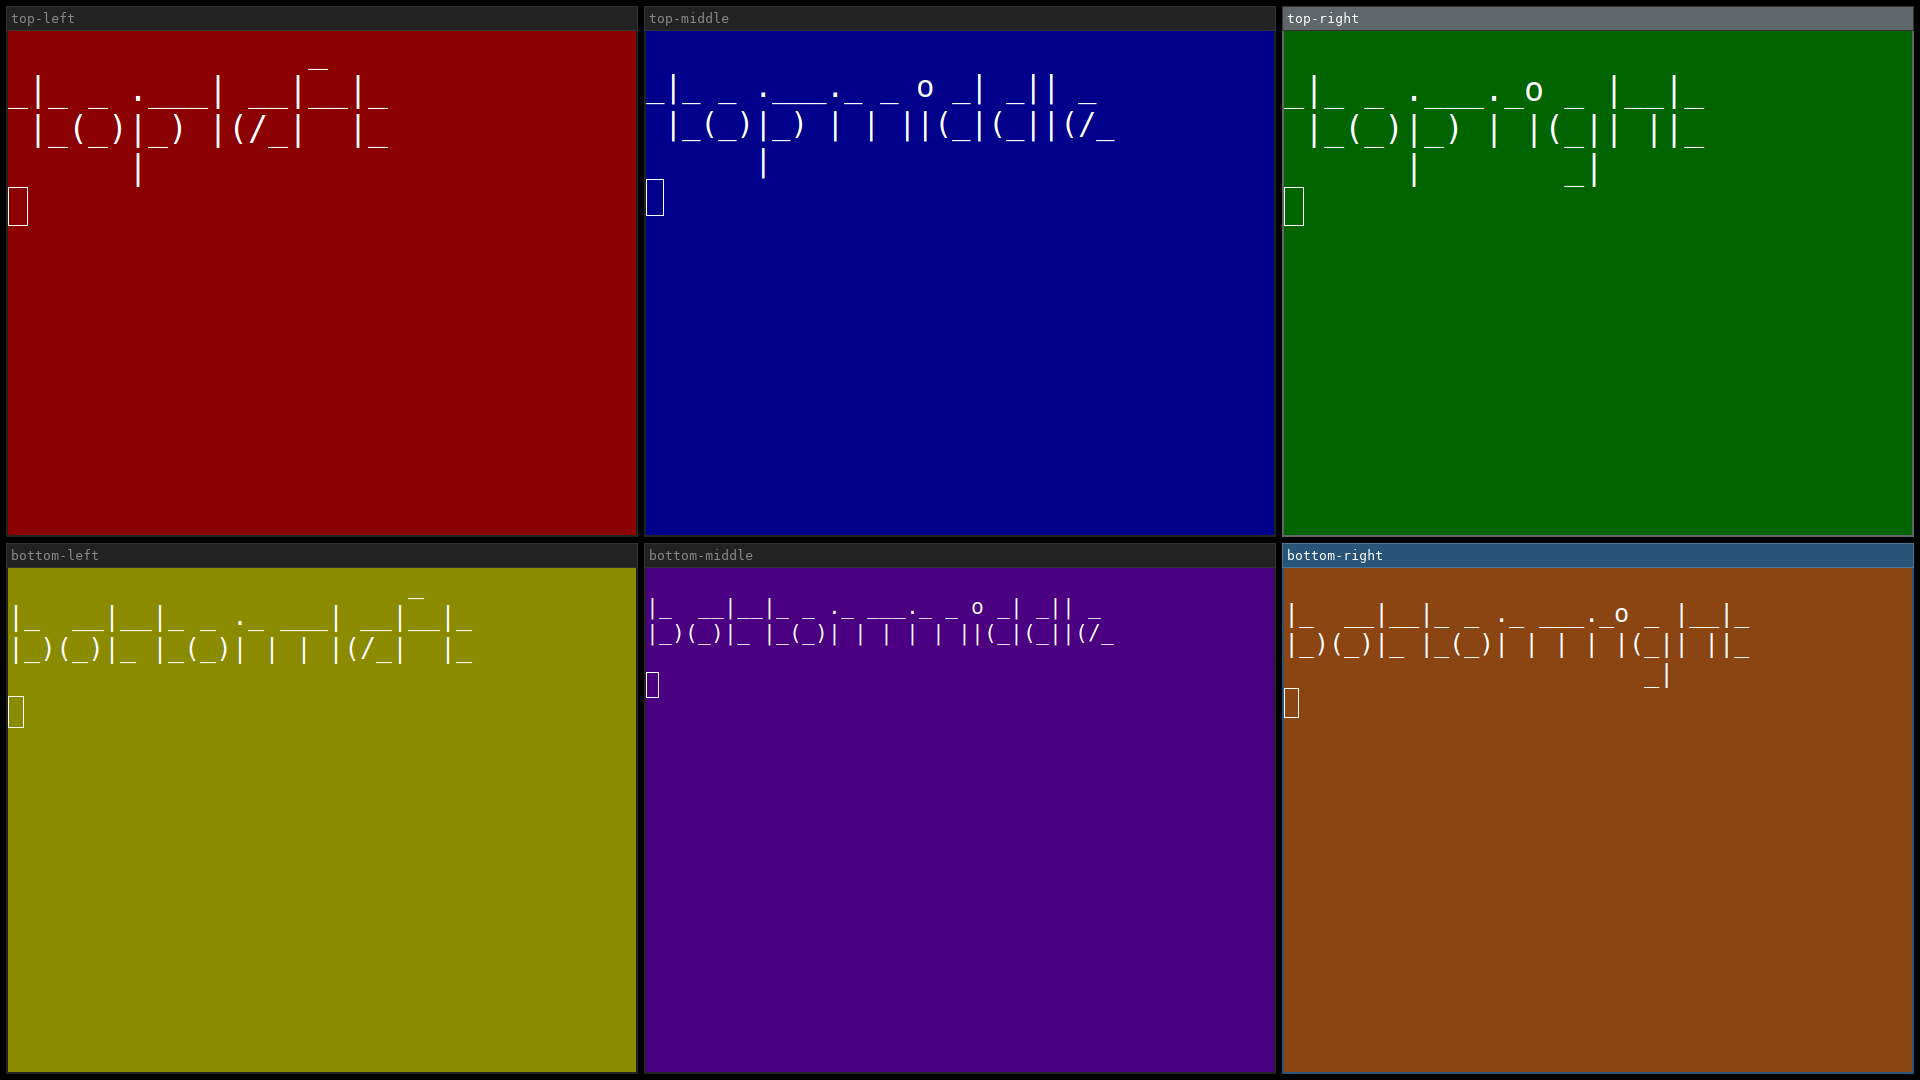
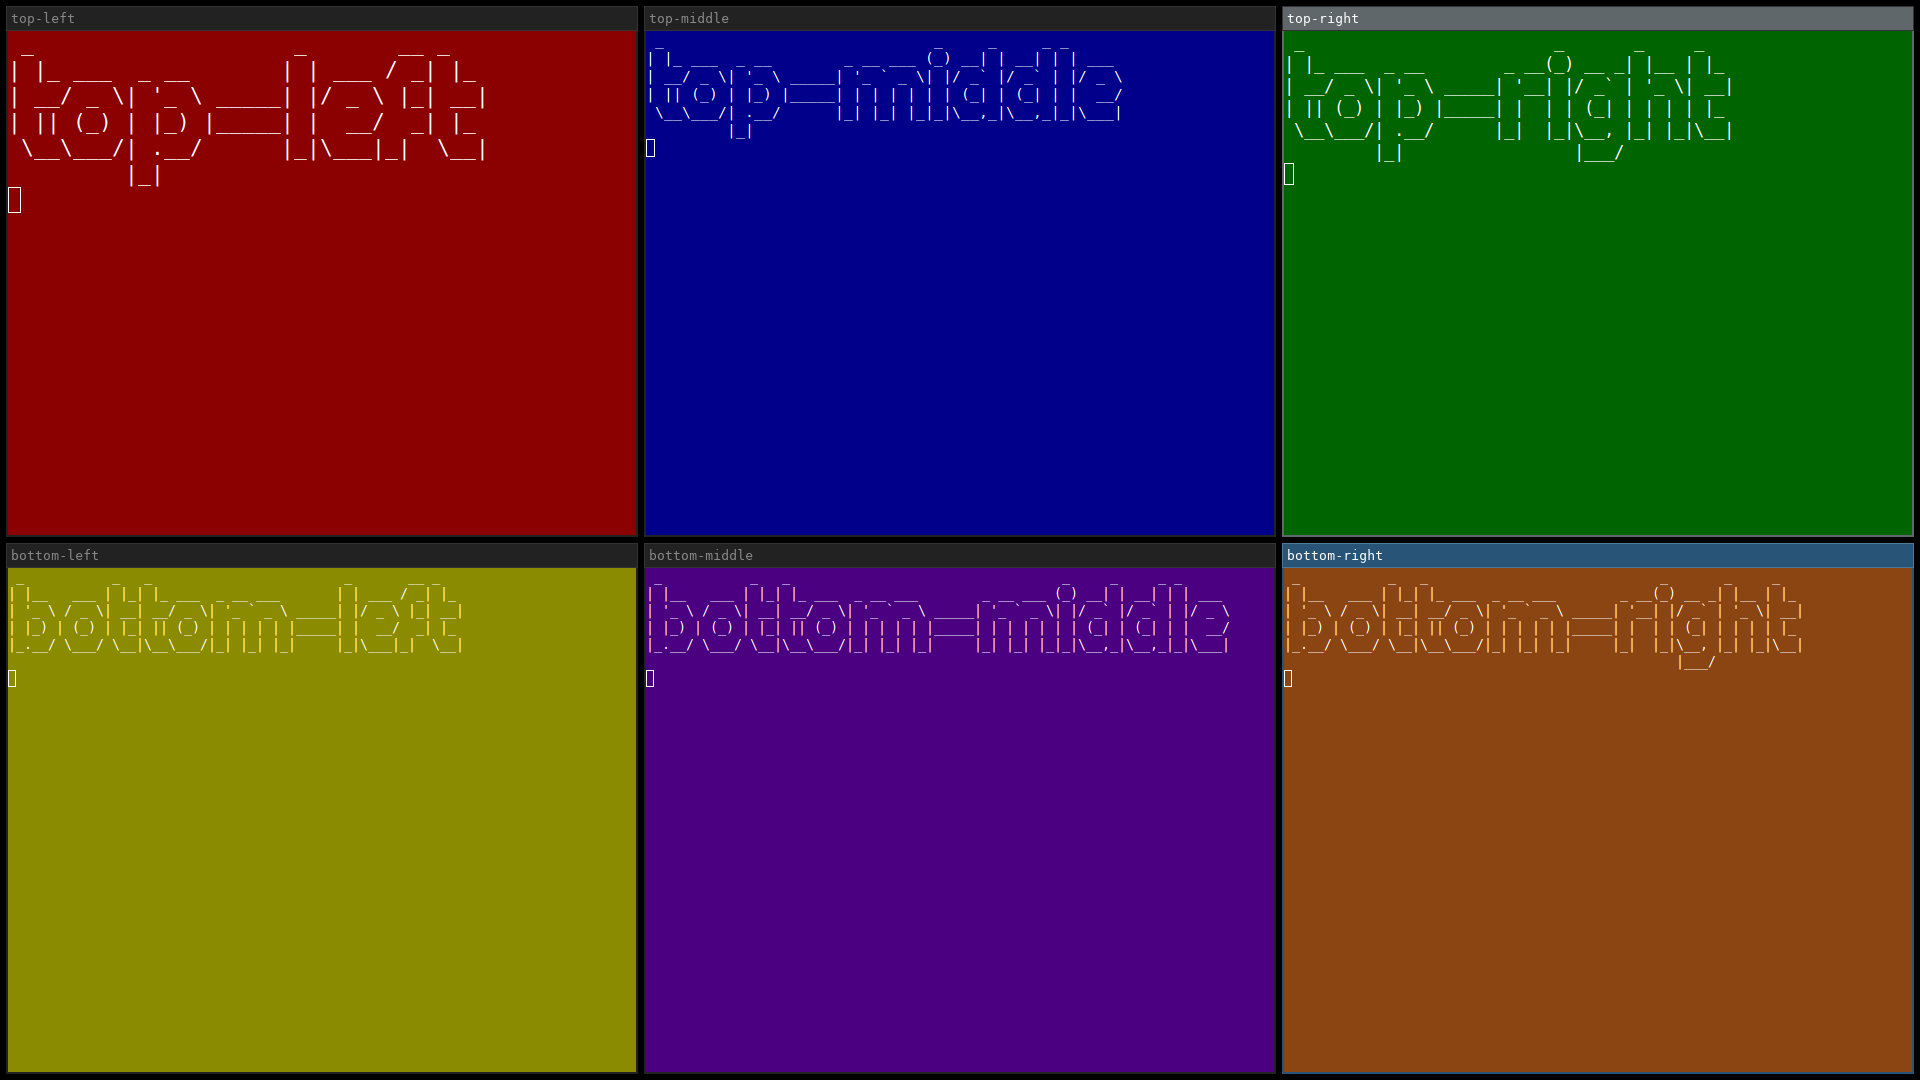
scripts/generate-layout-screenshots, CLAUDE.md: Switch default font to standard
mini (figlet's most compact font) was hard to read at a glance —
confirmed by prototyping mini/small/standard/block against a few
templates in an untracked directory for review. standard read clearly
even in nine-grid's small cells; block had a sizing bug (wrapped
mid-word in narrower cells, since the fit calculation was calibrated
against mini's much narrower glyph-to-cell ratio) and was dropped.

- scripts/generate-layout-screenshots: FIGLET_FONT default mini ->
  standard (still overridable via --font, added last commit)
- CLAUDE.md: Note the switch and why
- screenshots/*.png: Regenerated with the new font

diff --git a/CLAUDE.md b/CLAUDE.md
@@ -552,7 +552,10 @@ already exist at the moment it runs, not ones a later `switch_workspace()` call 
 every screenshot's own workspace — so it silently produced zero gap before this was caught.
 
 Each slot is filled with a `foot` window given a distinct background color and its own slot name
-rendered via `figlet` (`--font`, default the `mini` font), so the shape and slot names are both
+rendered via `figlet` (`--font`, default the `standard` font — `mini` was tried first but found too
+cramped to read at a glance; `standard` reads clearly even in a 3x3 grid's small cells, at the cost
+of hitting `MAX_FONT_SIZE`'s clamp rather than growing further in wide panes), so the shape and
+slot names are both
 readable directly from the image without needing the template's own source alongside it. The font
 size is **not**
 a fixed guess — a template's shape (a 2x2 grid's equal quadrants vs. a sidebar's narrow column)
